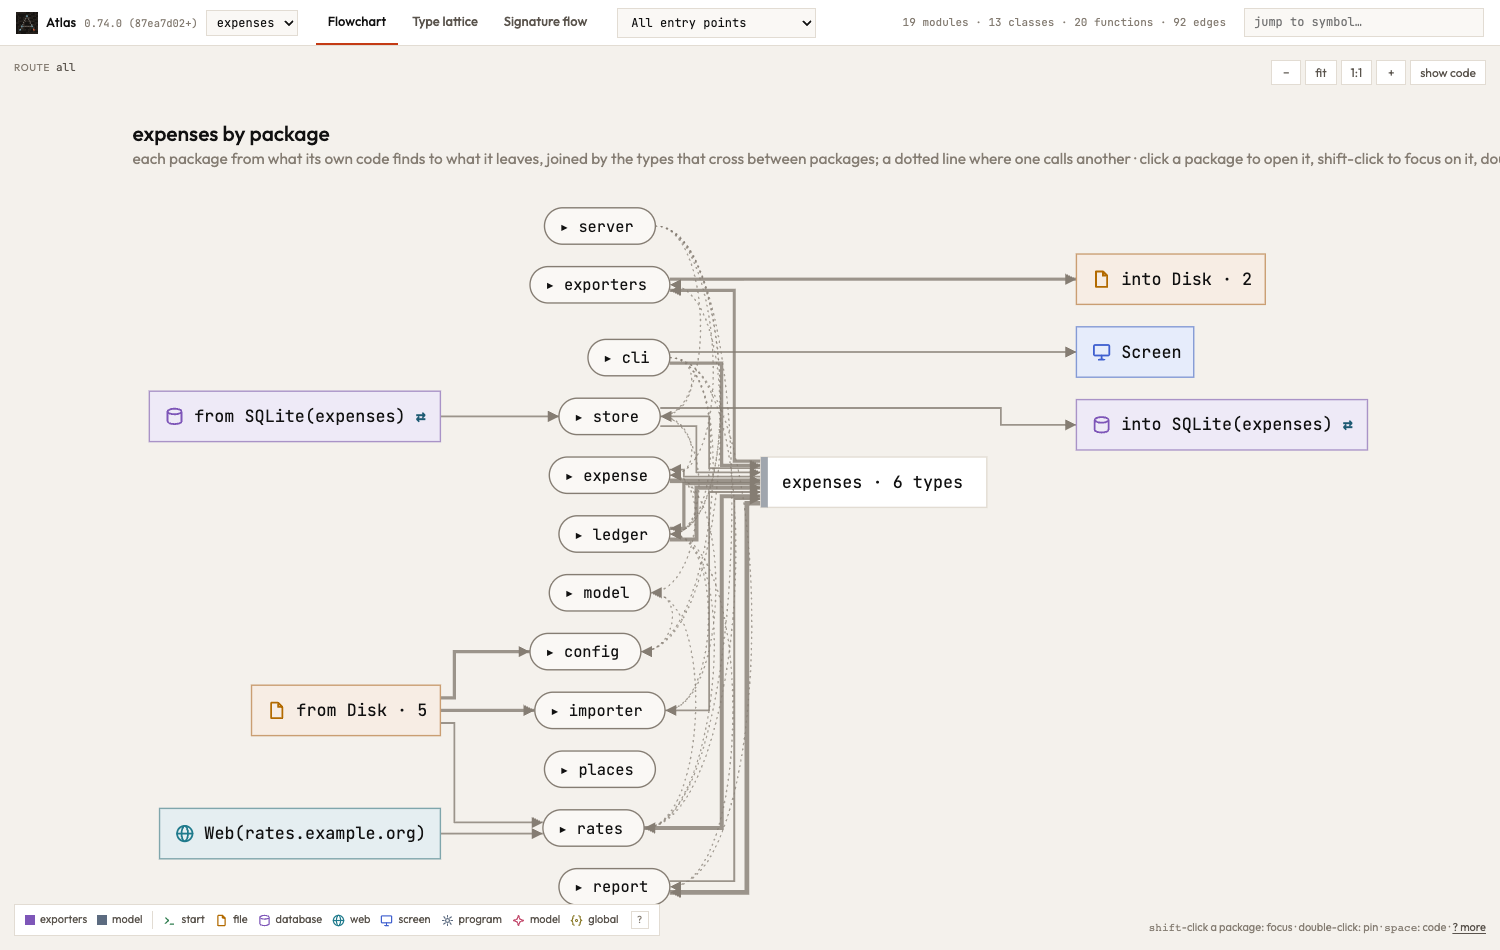
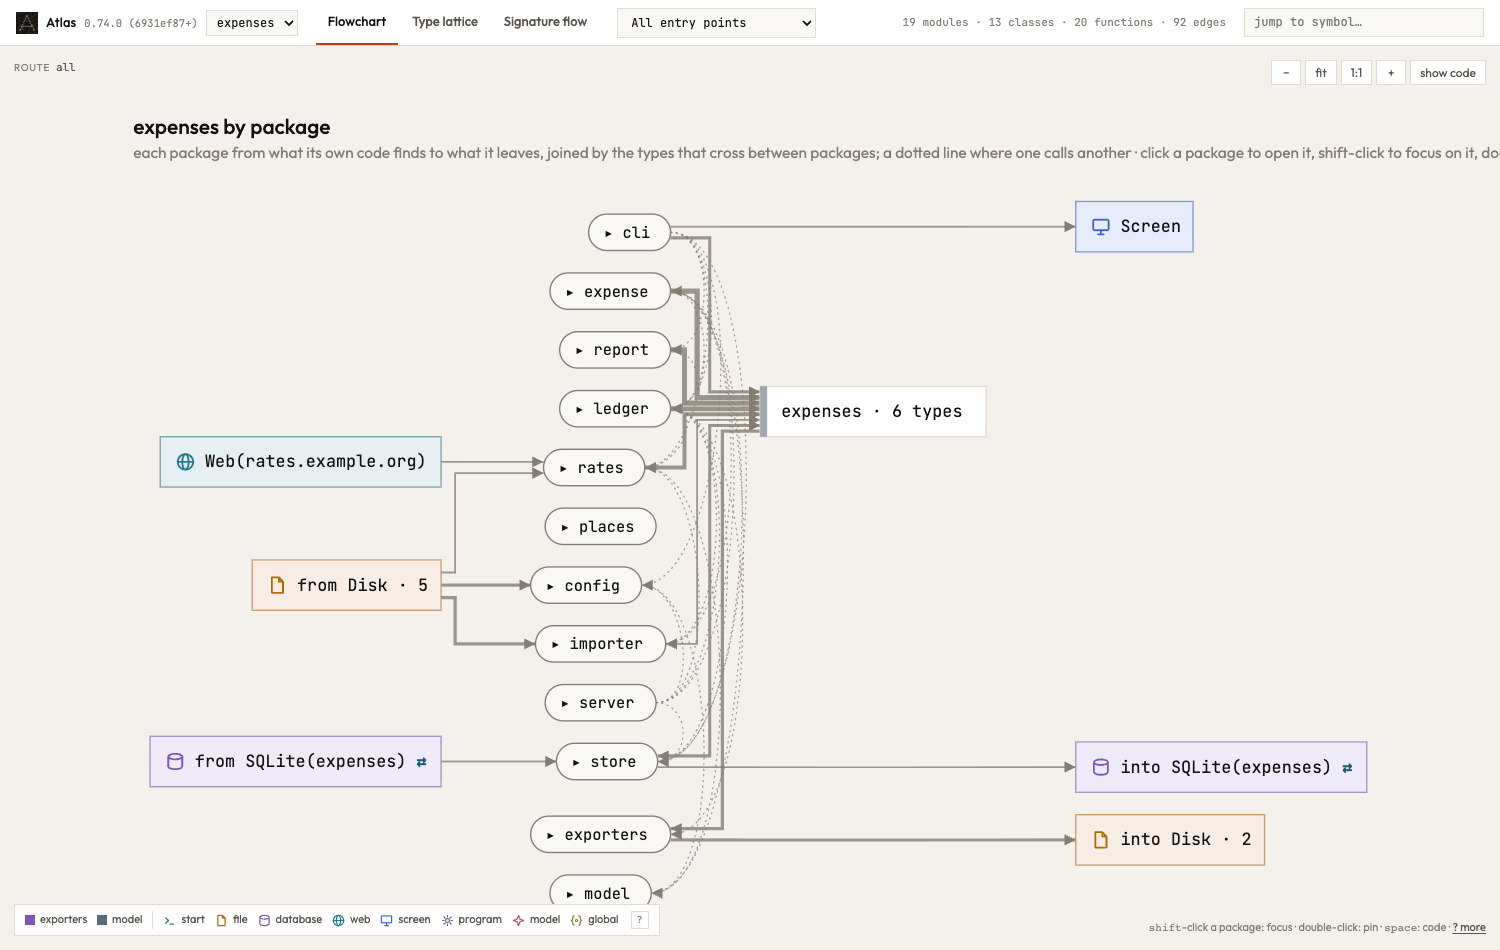
One line per package and type with an arrowhead each way; every box of a focus stands on its own (#465)

diff --git a/viewer/index.html b/viewer/index.html
@@ -1312,7 +1312,10 @@ async function renderPlaat(mine) {
   // the types that cross between them, what they write. A type is one box that a package takes and another gives, so the
   // layout puts every type after every package and the arrowhead says the way: a line into a package is laid out from it
   // (`flipped`) and drawn as it runs. A call between two packages orders neither and is an arc beside them, as in a focus
-  const columns = !V.route && !V.kind && !V.focus.size && !DIFF, flipped = new Set();
+  // What a package takes of a type and what it gives of it are two lines between the same two boxes: the overview draws them
+  // on one path with an arrowhead at each end the data runs to (`paired`: a pair of boxes to the line laid out for it, which
+  // carries the other as `also`). A line a package reaches through another stays a line of its own (sentence 6)
+  const columns = !V.route && !V.kind && !V.focus.size && !DIFF, flipped = new Set(), paired = new Map();
   const isType = id => { const p = places.get(id); return p ? p.kind === "type" || p.kind === "ext" : famFrames.has(id) || libFrames.has(id); };
   const edgeInfo = new Map(), dropped = [], besides = [], addEdge = (a, b, info) => {
     if (a === b) return;
@@ -1325,6 +1328,11 @@ async function renderPlaat(mine) {
     // between two of them is a channel of its own that puts neither before the other. It is drawn beside them once they
     // are placed, and is no line of the layout
     if (info.uses && (columns || V.focus.size) && !DIFF && ![a, b].some(x => x.startsWith("n:unit:~"))) { besides.push(id); return; }
+    if (columns && isType(a) !== isType(b) && !info.uses && !info.back) {
+      const key = `${[a, b].sort().join("|")}|${!!info.reach}`;
+      if (paired.has(key)) { edgeInfo.get(paired.get(key)).also = id; return; }
+      paired.set(key, id);
+    }
     const flip = columns && isType(a) && !isType(b);
     if (flip) flipped.add(id);
     root.edges.push({id, sources: [flip ? b : a], targets: [flip ? a : b], ...(info.label ? {labels: [{text: info.label, width: textW(info.label, 6.2), height: 12}]} : {})});
@@ -1575,11 +1583,14 @@ async function renderPlaat(mine) {
       }
       const d = pts.map((q, i) => (i ? "L" : "M") + q.x + "," + q.y).join(" ");
       const layer = ports.length ? ig : eg;
-      const p = el("path", {class: "sedge fn" + (info.reach ? " reach" : "") + (info.back ? " back" : "") + (info.uses ? " uses" : ""), d, "stroke-width": (info.uses ? 1 : 1.3) + (info.n > 1 ? Math.min(3, Math.log2(info.n)) : 0), "data-a": ea, "data-b": eb}, layer);
-      const last = pts[pts.length - 1], prev = pts[pts.length - 2], ang = Math.atan2(last.y - prev.y, last.x - prev.x), L = 8, Wd = 4;
-      const head = el("polygon", {points: [[last.x, last.y], [last.x - L * Math.cos(ang) + Wd * Math.sin(ang), last.y - L * Math.sin(ang) - Wd * Math.cos(ang)], [last.x - L * Math.cos(ang) - Wd * Math.sin(ang), last.y - L * Math.sin(ang) + Wd * Math.cos(ang)]].map(q => q.join(",")).join(" "), class: "sedge-head"}, layer);
+      const other = info.also && edgeInfo.get(info.also), lines = (info.n || 1) + (other ? other.n || 1 : 0);
+      const p = el("path", {class: "sedge fn" + (info.reach ? " reach" : "") + (info.back ? " back" : "") + (info.uses ? " uses" : ""), d, "stroke-width": (info.uses ? 1 : 1.3) + (lines > 1 ? Math.min(3, Math.log2(lines)) : 0), "data-a": ea, "data-b": eb}, layer);
+      const headAt = (last, prev) => { const ang = Math.atan2(last.y - prev.y, last.x - prev.x), L = 8, Wd = 4; return el("polygon", {points: [[last.x, last.y], [last.x - L * Math.cos(ang) + Wd * Math.sin(ang), last.y - L * Math.sin(ang) - Wd * Math.cos(ang)], [last.x - L * Math.cos(ang) - Wd * Math.sin(ang), last.y - L * Math.sin(ang) + Wd * Math.cos(ang)]].map(q => q.join(",")).join(" "), class: "sedge-head"}, layer); };
+      const head = headAt(pts[pts.length - 1], pts[pts.length - 2]);
       if (info.hue) { p.style.stroke = hueVar(info.hue); head.style.fill = hueVar(info.hue); }
       const els = [p, head];
+      // the line the other way on the same path: its arrowhead at this line's start
+      if (other) { els.push(headAt(pts[0], pts[1])); el("title", {}, p).textContent = `${info.n || 1} of the finer picture's lines run this way, ${other.n || 1} the other`; edgeEls.push({a: eb, b: ea, els, kind: "data"}); }
       for (const port of ports) {
         const bar = el("path", {class: "sedge interior-port", "data-step": port.id, "pointer-events": "none", d: `M${port.x - 6 * port.dy},${port.y + 6 * port.dx}L${port.x + 6 * port.dy},${port.y - 6 * port.dx}`, "stroke-width": 2}, ig);
         if (info.hue) bar.style.stroke = hueVar(info.hue);
@@ -1588,7 +1599,7 @@ async function renderPlaat(mine) {
       // a bundle: the fine lines of one channel between the same two boxes are one line that says how many it stands for; in a
       // union, a count that differs says what it was
       const again = recounted(info), bundle = bundleOf(info);
-      if (bundle) el("title", {}, p).textContent = again ? `${info.was} lines of the finer picture in A, ${info.n ?? 1} in B` : `${info.n} lines of the finer picture`;
+      if (bundle && !other) el("title", {}, p).textContent = again ? `${info.was} lines of the finer picture in A, ${info.n ?? 1} in B` : `${info.n} lines of the finer picture`;
       if (info.title) el("title", {}, p).textContent = info.title;
       for (const l of e.labels || []) {
         const tx = el("text", {class: "sedge-label" + (l.text === bundle ? " bundle" : ""), x: l.x + c.x + l.width / 2, y: l.y + c.y + 10, "text-anchor": "middle"}, eg);

diff --git a/viewer/plan.js b/viewer/plan.js
@@ -2665,7 +2665,9 @@ const meet = C => {
 // The picture the page draws is the coarse plan with its siblings that draw alike merged (`siblings`) and its places ordered
 // on the disk (`meet`). One reading of a union is not taken alone: the page takes the union of the two
 const quotients = C => meet(siblings(C));
-const alike = C => (SIDE ? C : quotients(C));
+// A focus is the detail the reader asked for of its packages, so each of its boxes stands on its own, named: siblings that
+// draw alike are merged where a picture has an order to keep short, never in a focus
+const alike = C => (SIDE ? C : V.focus.size && !V.route && !V.kind ? meet(C) : quotients(C));
 // ---- the overview is the image of one fine plan of generators ----
 // A view with no route has no order between its arrows, so its fine plan `F₀` has no moments: the functions of the code,
 // each with its own arrow (sentence 6: a package shows what its own code does, not what it reaches through another), a type

diff --git a/docs/reference/mathematics.md b/docs/reference/mathematics.md
@@ -1569,11 +1569,15 @@ gives and holds. A test is a way in from outside, not a layer.
 **In Atlas.** A route is drawn in layers from its entry to the places it reaches. A focus is three layers: what it takes,
 its functions, what it gives (One fine plan, every picture its image). Its plan has no order between its functions, so a
 call between two of them puts neither before the other: it is a channel of its own, drawn as an arc beside the boxes once
-they are placed, and no line of the layering; the boxes are placed by their lines to the types alone. The overview is four
+they are placed, and no line of the layering; the boxes are placed by their lines to the types alone. A focus is the
+detail the reader asked for, so each of its boxes stands on its own, named: siblings that draw alike are one box where a
+picture has an order to keep short, never in a focus. The overview is four
 layers, the same reading of sentence 2 one level up: what the packages read of the world, the packages, the types that
 cross between them, what they write. A type there is one box that one package gives and another takes, so no layering
 puts it after the one and before the other; the layout puts every type after every package, and the arrowhead says the
-way a line runs. A line's width and its tooltip say how many lines it stands for, since a label would stand as a layer of
+way a line runs. What a package takes of a type and what it gives of it are two lines between the same two boxes, drawn on
+one path with an arrowhead at each end the data runs to; a line a package reaches through another stays a line of its own
+(sentence 6). A line's width and its tooltip say how many lines it stands for, since a label would stand as a layer of
 its own between two columns. The layers are where a box is looked for, not a fact of the plan: the picture is the same
 plan under any placing.
 **Where.** `design.md` §2, the viewer's layout (elkjs); `besides`, `columns` and `flipped` in `viewer/index.html`.

diff --git a/docs/changes/465.md b/docs/changes/465.md
@@ -11,4 +11,6 @@ its arrowhead, a call between two packages is a dotted arc beside them, and a li
 it stands for. The program's own types that cross between packages are one box, `expenses · 6 types`, beside each
 library's; a click opens it into the types, and in an opened package the types that stay inside it fold the same way. A
 place the program reads and writes counts in its kind on both sides (`from Disk · 25`, `into Disk · 8`) and no longer
-stands as a third box in the middle.
+stands as a third box in the middle. What a package takes of a type and what it gives of it run on one line with an arrowhead at each
+end. In a focus every class and function is a row of its own, so a module of five classes that all take and give the same
+types shows five rows, not one box that names two of them.
